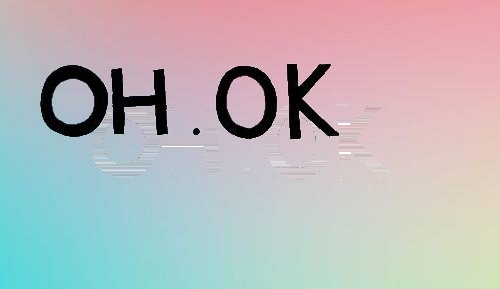
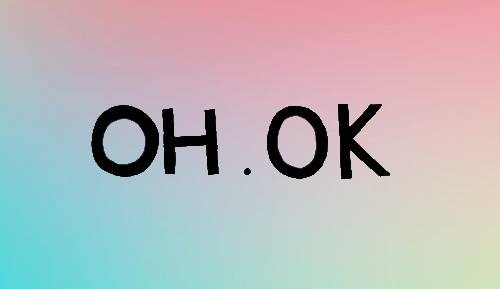
_

Changed region(s): [[0.06, 0.218, 0.78, 0.6228], [0.48, 0.5606, 0.51, 0.6228]]

diff --git a/main2.py b/main2.py
@@ -1,12 +1,13 @@
 import numpy as np
 import cv2
 from collections import defaultdict
+from itertools import chain
 
 show_identified_characters = False
 remove = True
 add = True
 write_step = True
-image = 'example_03.jpg'
+image = 'example_04.jpg'
 
 
 def get_roi_area_coords(contour):
@@ -47,7 +48,8 @@ def find_inter_region(contours,i):
 	#print(mask)
 	return mask
 
-def find_nearest_color(img,mask,coord):
+
+def find_nearest_color_2(img,mask,coord):
 	x,y = coord
 	while np.all(mask[x][y]):
 		y += 1
@@ -79,7 +81,7 @@ for i in range(len(contours)-1):
 			levels[j].append(i)
 
 in_contours = list(levels.values())
-in_contours = [_[0] for _ in in_contours]
+in_contours = list(chain.from_iterable(in_contours))
 out_contours = [_ for _ in range(len(contours)) if _ not in in_contours]
 
 num_clicks = 0
@@ -118,9 +120,9 @@ if show_identified_characters:
 		contour = contours[i]
 		roi, area, coords = get_roi_area_coords(contour)
 		xs, ys, xn, yn = coords
-		rect = cv2.rectangle(img, (xs, ys), (xn, yn), (0, 255, 0), 2)
+		rect = cv2.rectangle(img, (xs, ys), (xn, yn), (0, 0, 255), 2)
 		cv2.imshow('rect', rect)
-
+		cv2.imwrite(image[:-4] + '_boxes.jpg', rect)
 	cv2.waitKey(5000)
 
 
